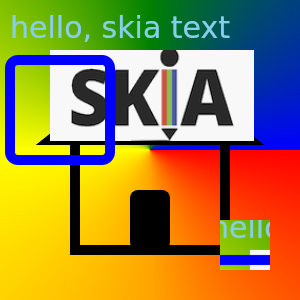
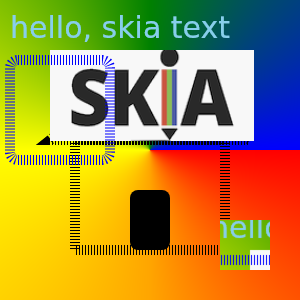
x

diff --git a/src/ffi.ts b/src/ffi.ts
@@ -396,8 +396,8 @@ const SYMBOLS = {
       "pointer",
       "i32",
       "i32",
-      "pointer",
-      "pointer",
+      "buffer",
+      "buffer",
     ],
     result: "pointer",
   },
@@ -659,6 +659,11 @@ const SYMBOLS = {
     parameters: ["pointer", "pointer"],
     result: "void",
   },
+
+  sk_init: {
+    parameters: [],
+    result: "void",
+  },
 } as const;
 
 const LOCAL_BUILD = Deno.env.get("DENO_SKIA_LOCAL") === "1";
@@ -729,6 +734,8 @@ if (LOCAL_BUILD) {
 
   lib = (await dlopen(options, SYMBOLS)).symbols;
 }
+
+lib.sk_init();
 
 export default lib;
 

diff --git a/src/canvas.ts b/src/canvas.ts
@@ -24,9 +24,9 @@ enum CFormat {
 export type ImageFormat = keyof typeof CFormat;
 
 const OUT_SIZE = new Uint32Array(1);
-const OUT_SIZE_PTR = Number(Deno.UnsafePointer.of(OUT_SIZE));
+const OUT_SIZE_PTR = new Uint8Array(OUT_SIZE.buffer);
 const OUT_DATA = new BigUint64Array(1);
-const OUT_DATA_PTR = Number(Deno.UnsafePointer.of(OUT_DATA));
+const OUT_DATA_PTR = new Uint8Array(OUT_DATA.buffer);
 
 const SK_DATA_FINALIZER = new FinalizationRegistry(
   (ptr: Deno.PointerValue) => {

diff --git a/src/context2d.ts b/src/context2d.ts
@@ -314,11 +314,11 @@ export class CanvasRenderingContext2D {
     sk_context_set_miter_limit(this.#ptr, value);
   }
 
-  get lineDash() {
+  getLineDash() {
     return this.#lineDash;
   }
 
-  set lineDash(value: number[]) {
+  setLineDash(value: number[]) {
     this.#lineDash = value;
     sk_context_set_line_dash(this.#ptr, new Float32Array(value), value.length);
   }

diff --git a/test.ts b/test.ts
@@ -3,6 +3,8 @@ import { createCanvas, Image, Path2D } from "./mod.ts";
 const canvas = createCanvas(300, 300);
 const ctx = canvas.getContext("2d");
 
+ctx.setLineDash([1, 2]);
+
 const gradient = ctx.createConicGradient(0, 150, 150);
 
 gradient.addColorStop(0, "red");

diff --git a/bench/deno.js b/bench/deno.js
@@ -6,7 +6,7 @@ Deno.bench("deno skia_canvas", () => {
   const canvas = createCanvas(1024, 768);
   const ctx = canvas.getContext("2d");
   draw(ctx);
-  canvas.encode("png", 100);
+  canvas.encode("png");
 });
 
 // Deno.bench("deno canvaskit-wasm", () => {

diff --git a/native/src/context2d.cpp b/native/src/context2d.cpp
@@ -87,8 +87,16 @@ SkPaint* sk_context_fill_paint(sk_context_state* state) {
     auto color = state->fillStyle.color;
     paint->setColor(SkColorSetARGB(color.a, color.r, color.g, color.b));
   } else if (state->fillStyle.type == kStyleShader) {
-    paint->setColor(SkColorSetARGB(255, 0, 0, 0));
+    paint->setColor(SkColorSetARGB(paint->getAlpha(), 0, 0, 0));
     paint->setShader(state->fillStyle.shader);
+  }
+  if (!state->lineDash.empty()) {
+    auto effect = SkDashPathEffect::Make(
+      state->lineDash.data(),
+      state->lineDash.size(),
+      state->lineDashOffset
+    );
+    paint->setPathEffect(effect);
   }
   return paint;
 }
@@ -100,7 +108,16 @@ SkPaint* sk_context_stroke_paint(sk_context_state* state) {
     auto color = state->strokeStyle.color;
     paint->setColor(SkColorSetARGB(color.a, color.r, color.g, color.b));
   } else if (state->strokeStyle.type == kStyleShader) {
+    paint->setColor(SkColorSetARGB(paint->getAlpha(), 0, 0, 0));
     paint->setShader(state->strokeStyle.shader);
+  }
+  if (!state->lineDash.empty()) {
+    auto effect = SkDashPathEffect::Make(
+      state->lineDash.data(),
+      state->lineDash.size(),
+      state->lineDashOffset
+    );
+    paint->setPathEffect(effect);
   }
   return paint;
 }

diff --git a/native/src/gradient.cpp b/native/src/gradient.cpp
@@ -1,5 +1,6 @@
 #include "include/gradient.hpp"
 #include <iostream>
+#include <vector>
 
 extern "C" {
   sk_gradient* sk_gradient_create_linear(float startX, float startY, float endX, float endY) {
@@ -63,7 +64,7 @@ extern "C" {
       case GradientType::Linear: {
         auto data = (sk_linear_gradient*)gradient->data;
         SkPoint points[] = {{data->start.x, data->start.y}, {data->end.x, data->end.y}};
-        auto g = SkGradientShader::MakeLinear(
+        return SkGradientShader::MakeLinear(
           points,
           colors,
           positions,
@@ -72,7 +73,6 @@ extern "C" {
           0,
           &gradient->transform
         );
-        return sk_sp(g.release());
       }
 
       case GradientType::Radial: {

diff --git a/native/include/context2d.hpp b/native/include/context2d.hpp
@@ -18,6 +18,12 @@
 #include "modules/skparagraph/include/ParagraphBuilder.h"
 #include "modules/skparagraph/src/ParagraphBuilderImpl.h"
 #include "modules/skparagraph/src/ParagraphImpl.h"
+#include "include/effects/SkColorMatrix.h"
+#include "include/effects/SkDashPathEffect.h"
+#include "include/effects/SkImageFilters.h"
+#include "include/effects/SkTableColorFilter.h"
+#include "include/effects/SkTrimPathEffect.h"
+#include "include/core/SkPathEffect.h"
 #include "deps/csscolorparser.hpp"
 #include "include/common.hpp"
 #include "include/font.hpp"

diff --git a/native/src/canvas.cpp b/native/src/canvas.cpp
@@ -2,8 +2,11 @@
 #include "include/context2d.hpp"
 
 extern "C" {
-  sk_canvas* sk_canvas_create(int width, int height, void* pixels) {
+  void sk_init() {
     SkGraphics::Init();
+  }
+
+  sk_canvas* sk_canvas_create(int width, int height, void* pixels) {
     sk_canvas* canvas = new sk_canvas();
     SkImageInfo info = SkImageInfo::MakeN32Premul(width, height);
     size_t rowBytes = info.minRowBytes();

diff --git a/native/include/canvas.hpp b/native/include/canvas.hpp
@@ -40,6 +40,7 @@ typedef struct sk_context {
 } sk_context;
 
 extern "C" {
+  SKIA_EXPORT void sk_init();
   SKIA_EXPORT sk_canvas* sk_canvas_create(int width, int height, void* pixels);
   SKIA_EXPORT void sk_canvas_destroy(sk_canvas* canvas);
   SKIA_EXPORT int sk_canvas_save(sk_canvas* canvas, char* path, int format, int quality);
